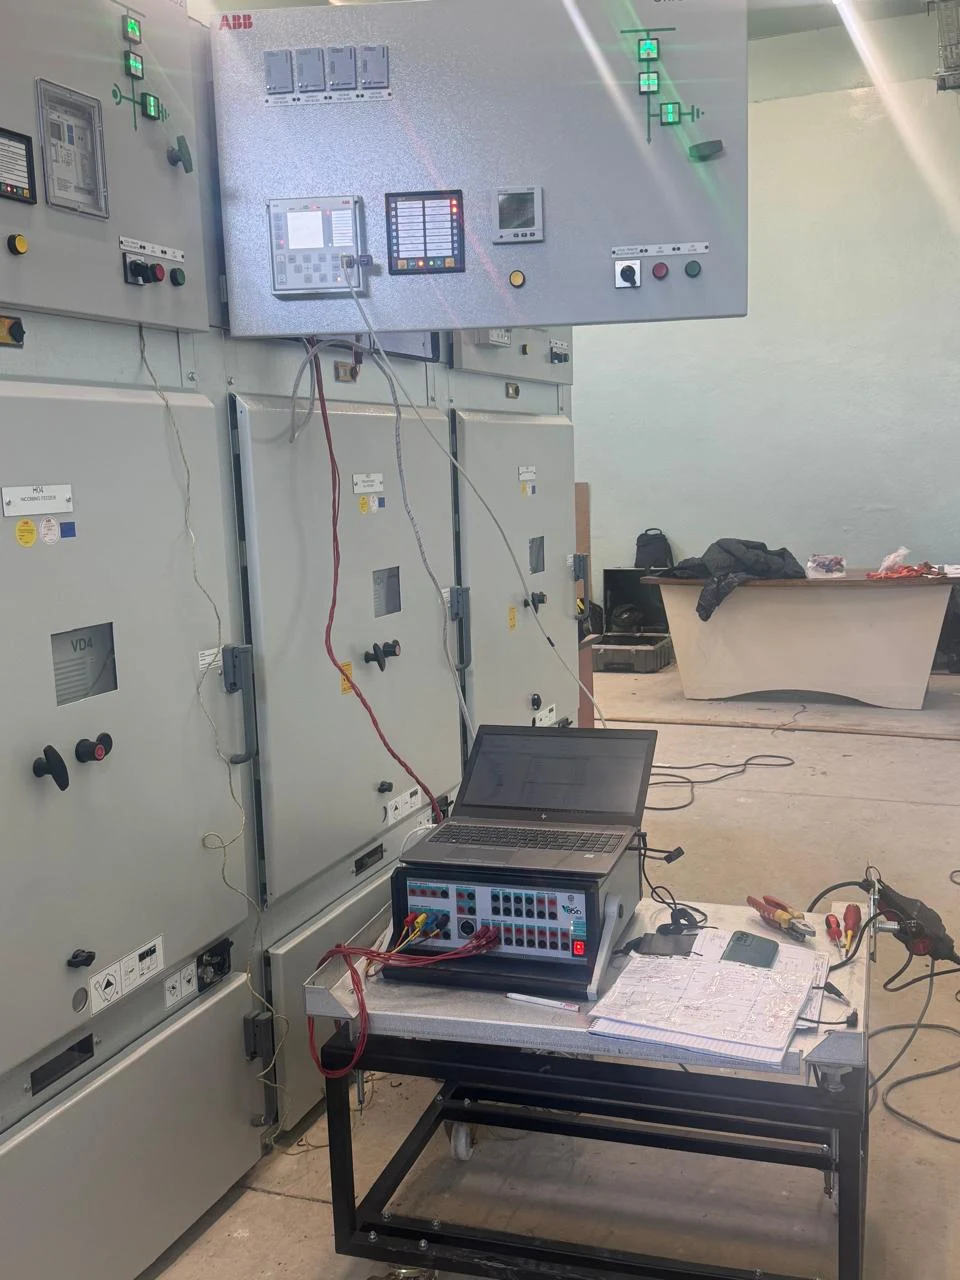
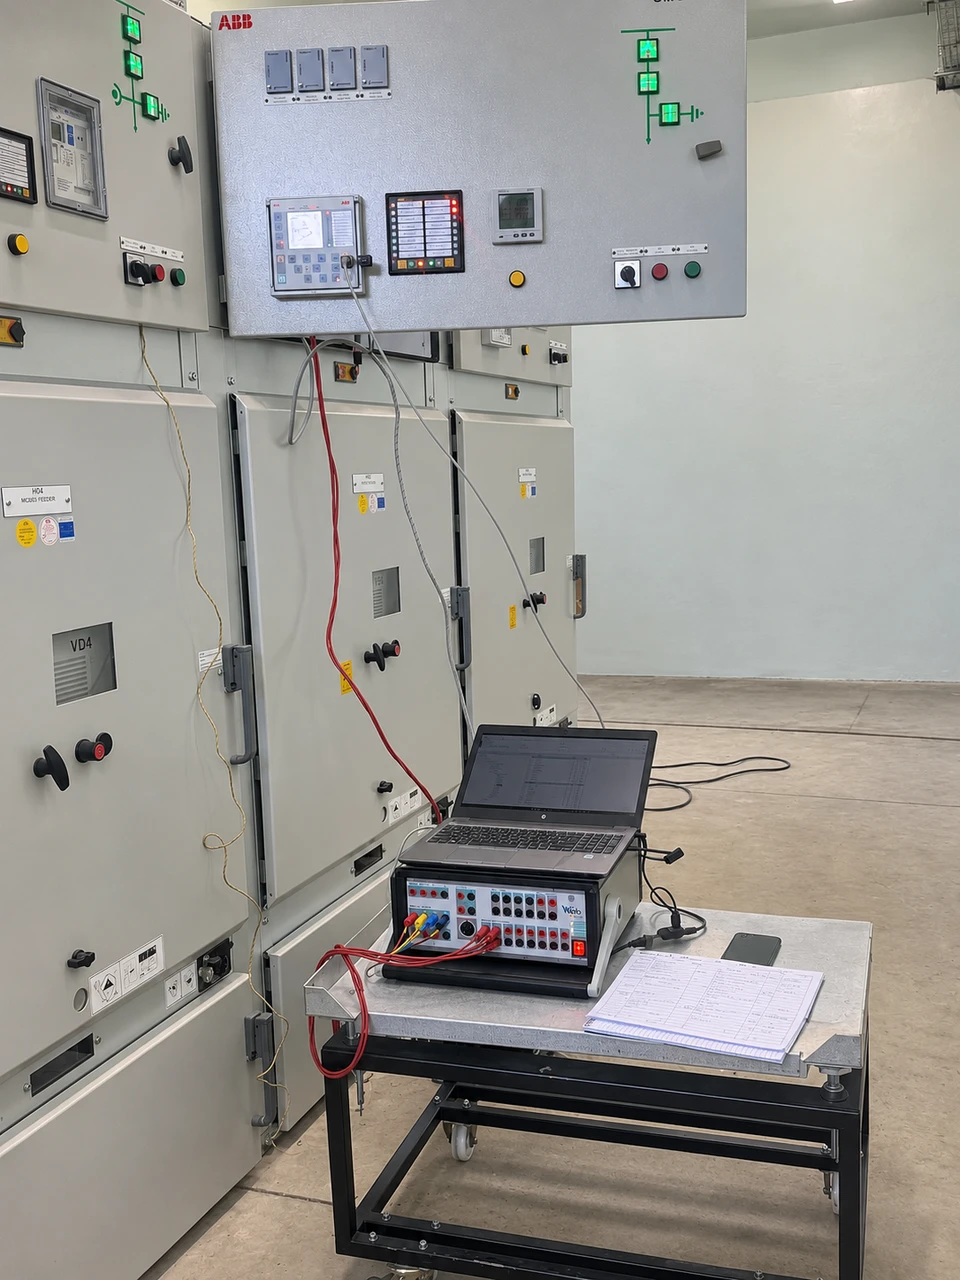
Apply requested photo cleanup, person removal and busduct replacement

diff --git a/expertise-services.js b/expertise-services.js
@@ -19,7 +19,7 @@ export const expertiseServices = [
     licenseUrl: 'https://creativecommons.org/licenses/by-sa/4.0/'
   },
   {
-    id: 'mv', title: 'Medium-voltage (MV) systems', tag: 'FEEDERS, SWITCHGEAR & SUBSTATIONS',
+    id: 'mv', hideImage: true, title: 'Medium-voltage (MV) systems', tag: 'FEEDERS, SWITCHGEAR & SUBSTATIONS',
     text: 'Medium-voltage infrastructure connecting incoming feeders, switchgear and transformer substations, with equipment installation, cable connections and protection interfaces coordinated around each site.',
     details: ['MV switchgear & feeders', 'Transformer connections', 'Protection & control interfaces'],
     image: '3.webp', width: 1280, height: 960, alt: 'Medium-voltage switchgear lineup with an engineer standing beside the equipment',
@@ -29,9 +29,9 @@ export const expertiseServices = [
     id: 'bus-duct', title: 'Bus duct systems', tag: 'ENCLOSED BUSBAR TRUNKING',
     text: 'Enclosed bus duct systems distribute power between electrical equipment and building loads, with connected trunking sections, supported routes and tap-off units matched to the installation.',
     details: ['Busway sections & joints', 'Tap-off units & connections', 'Supports & route installation'],
-    image: 'expertise-bus-duct-v3.webp', width: 1536, height: 1024,
-    alt: 'Compact electrical busbar trunking with bolted joints, a flat end-feed box, suspension rods and a red tap-off unit',
-    caption: 'Busbar trunking & tap-off unit', generatedIllustration: true
+    image: 'expertise-bus-duct-v3.webp', width: 418, height: 227,
+    alt: 'Electrical busduct with a tap-off switch enclosure and insulated busbar connection',
+    caption: 'Busduct & tap-off switch unit', suppliedImage: true
   },
   {
     id: 'light-poles', title: 'Light poles', tag: 'OUTDOOR LIGHTING INFRASTRUCTURE',
@@ -82,7 +82,7 @@ export function renderExpertiseServices(runtime, asset) {
         jsxs('article', {
           className: `capability capability-service service-${service.id}`, id: `service-${service.id}`,
           children: [
-            jsxs('figure', { className: 'service-photograph', children: [
+            service.hideImage ? null : jsxs('figure', { className: 'service-photograph', children: [
               jsx('img', { src: asset(service.image), alt: service.alt, width: service.width, height: service.height, loading: 'lazy', decoding: 'async' }),
               jsx('span', { className: 'service-number', 'aria-hidden': true, children: String(index + 9).padStart(2, '0') }),
               jsx('figcaption', { children: service.caption })
@@ -93,14 +93,14 @@ export function renderExpertiseServices(runtime, asset) {
               jsx('p', { children: service.text }),
               jsx('ul', { children: service.details.map(detail => jsx('li', { children: detail }, detail)) })
             ] }),
-            service.source ? jsxs('div', { className: 'service-photo-credit', children: [
+            service.hideImage ? null : service.source ? jsxs('div', { className: 'service-photo-credit', children: [
               jsx('span', { children: 'Technical reference photograph' }),
               jsxs('span', { children: [
                 jsx('a', { href: service.source, target: '_blank', rel: 'noopener noreferrer', children: service.credit }),
                 ' · ',
                 jsx('a', { href: service.licenseUrl, target: '_blank', rel: 'noopener noreferrer', children: service.license })
               ] })
-            ] }) : jsx('div', { className: 'service-photo-credit', children: jsx('span', { children: service.generatedIllustration ? 'AI-generated illustration' : 'Real photograph / in the field' }) })
+            ] }) : jsx('div', { className: 'service-photo-credit', children: jsx('span', { children: service.suppliedImage ? 'Supplied product reference' : service.generatedIllustration ? 'AI-generated illustration' : 'Real photograph / in the field' }) })
           ]
         }, service.id)
       ) }),

diff --git a/expertise-image-credits.html b/expertise-image-credits.html
@@ -70,6 +70,7 @@
     <p class="intro">These reference photographs and AI-generated illustrations show equipment and systems in our specialist services. They are not photographs of Sanan Company projects. Sources and image types are identified below.</p>
     <p class="change-note"><strong>Web preparation:</strong> reference photographs were resized and converted to WebP without changing their subjects. Their Creative Commons licenses appear beside the originals. AI-generated illustrations are identified separately. Attribution does not imply the photographer endorses Sanan Company.</p>
 
+    <p class="change-note">Company switchgear photographs have been edited to remove background clutter or people. Electrical equipment remains the subject of the original photographs.</p>
     <div class="credit-list">
       <article class="credit-card" aria-labelledby="credit-low-current">
         <a href="./expertise-low-current-v2.webp" aria-label="View the low-current systems illustration"><img src="./expertise-low-current-v2.webp" alt="CCTV, fire alarm and network systems" width="1536" height="1024" loading="lazy"></a>
@@ -94,11 +95,8 @@
       </article>
 
       <article class="credit-card" aria-labelledby="credit-bus-duct">
-        <a href="./expertise-bus-duct-v3.webp" aria-label="View the busduct illustration"><img src="./expertise-bus-duct-v3.webp" alt="Compact electrical busbar trunking with a red tap-off unit" width="1536" height="1024" loading="lazy"></a>
-        <div class="credit-body">
-          <h2 id="credit-bus-duct">Bus duct systems</h2>
-          <p>AI-generated photorealistic illustration created for Sanan Company. No logos or branding. This is an illustrative installation, not a photograph of a completed Sanan project.</p>
-        </div>
+        <a href="./expertise-bus-duct-v3.webp" aria-label="View the supplied busduct image"><img src="./expertise-bus-duct-v3.webp" alt="Busduct with tap-off switch unit" width="418" height="227" loading="lazy"></a>
+        <div class="credit-body"><h2 id="credit-bus-duct">Bus duct systems</h2><p>Product reference image supplied by Sanan Company. This is not a photograph of a completed Sanan installation.</p></div>
       </article>
 
       <article class="credit-card" aria-labelledby="credit-light-poles">
